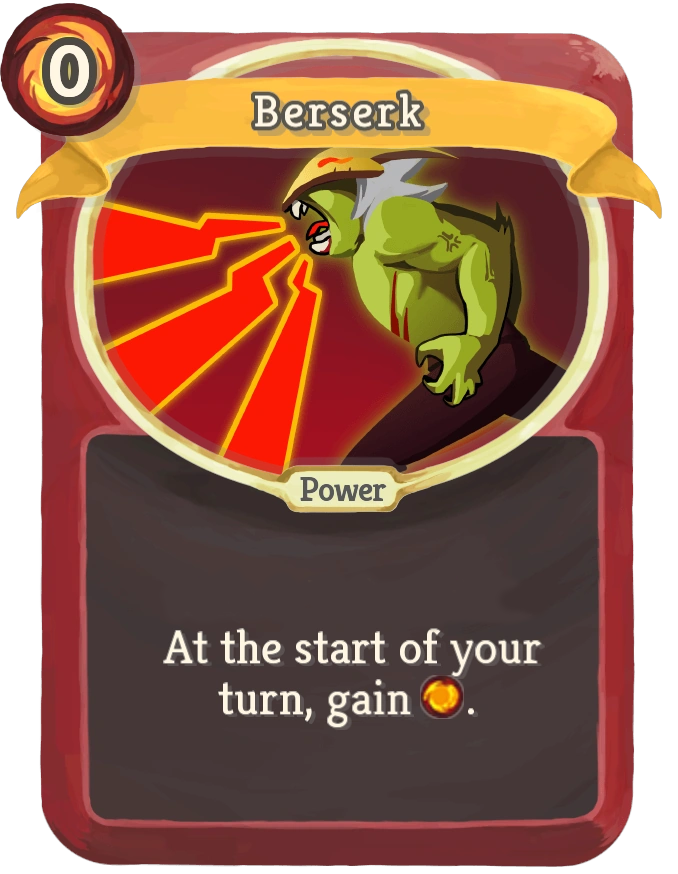
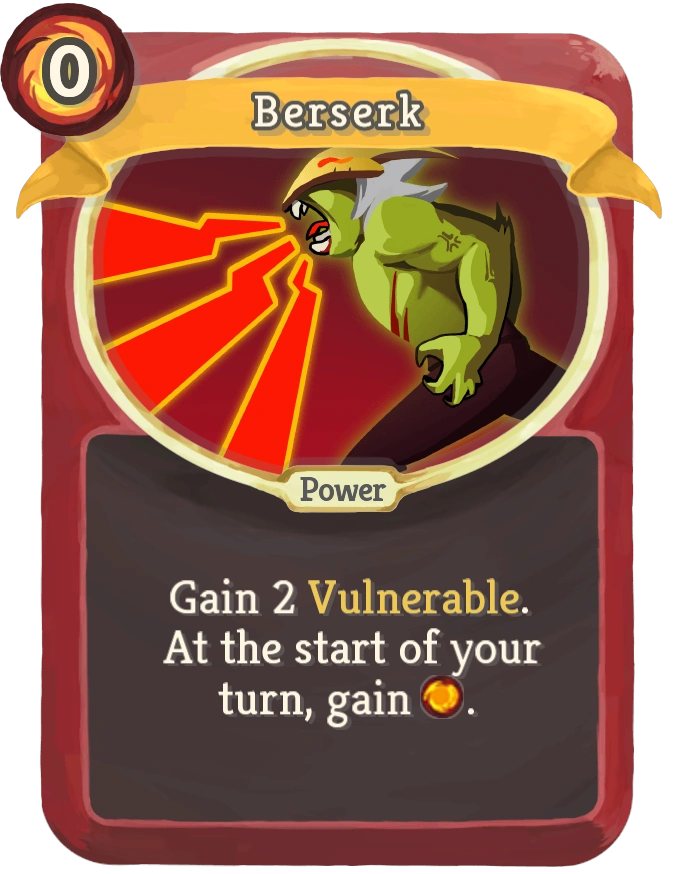
#5 Vulnerable hinzugefügt

Changed region(s): [[0.2478, 0.6487, 0.7743, 0.7105]]

diff --git a/src/main/java/de/bundeswehr/auf/slaythespire/model/card/ironclad/power/rare/BerserkCard.java b/src/main/java/de/bundeswehr/auf/slaythespire/model/card/ironclad/power/rare/BerserkCard.java
@@ -7,6 +7,7 @@ import de.bundeswehr.auf.slaythespire.model.card.structure.CardGrave;
 import de.bundeswehr.auf.slaythespire.model.card.structure.CardRarity;
 import de.bundeswehr.auf.slaythespire.model.card.structure.CardTrigger;
 import de.bundeswehr.auf.slaythespire.model.card.structure.PowerCard;
+import de.bundeswehr.auf.slaythespire.model.effect.debuff.VulnerableDebuff;
 import de.bundeswehr.auf.slaythespire.model.player.structure.Player;
 
 /**
@@ -20,8 +21,16 @@ public class BerserkCard extends PowerCard {
      * Constructor Berserk card.
      */
     public BerserkCard() {
-        super("Berserk", "At the start of your turn, gain 1 Energy.", 0, CardRarity.RARE, CardGrave.NONE, CardTrigger.PLAYER_BOT);
+        super("Berserk", "Gain 2 Vulnerable. At the start of your turn, gain 1 Energy.", 0, CardRarity.RARE, CardGrave.NONE, CardTrigger.PLAYER_BOT);
         setImagePath(new PathAssistent().toPath(this));
+    }
+
+    @Override
+    public void play(GameContext gameContext) {
+        Player player = gameContext.getPlayer();
+        player.addEffect(new VulnerableDebuff(), 2);
+
+        super.play(gameContext);
     }
 
     @Override
